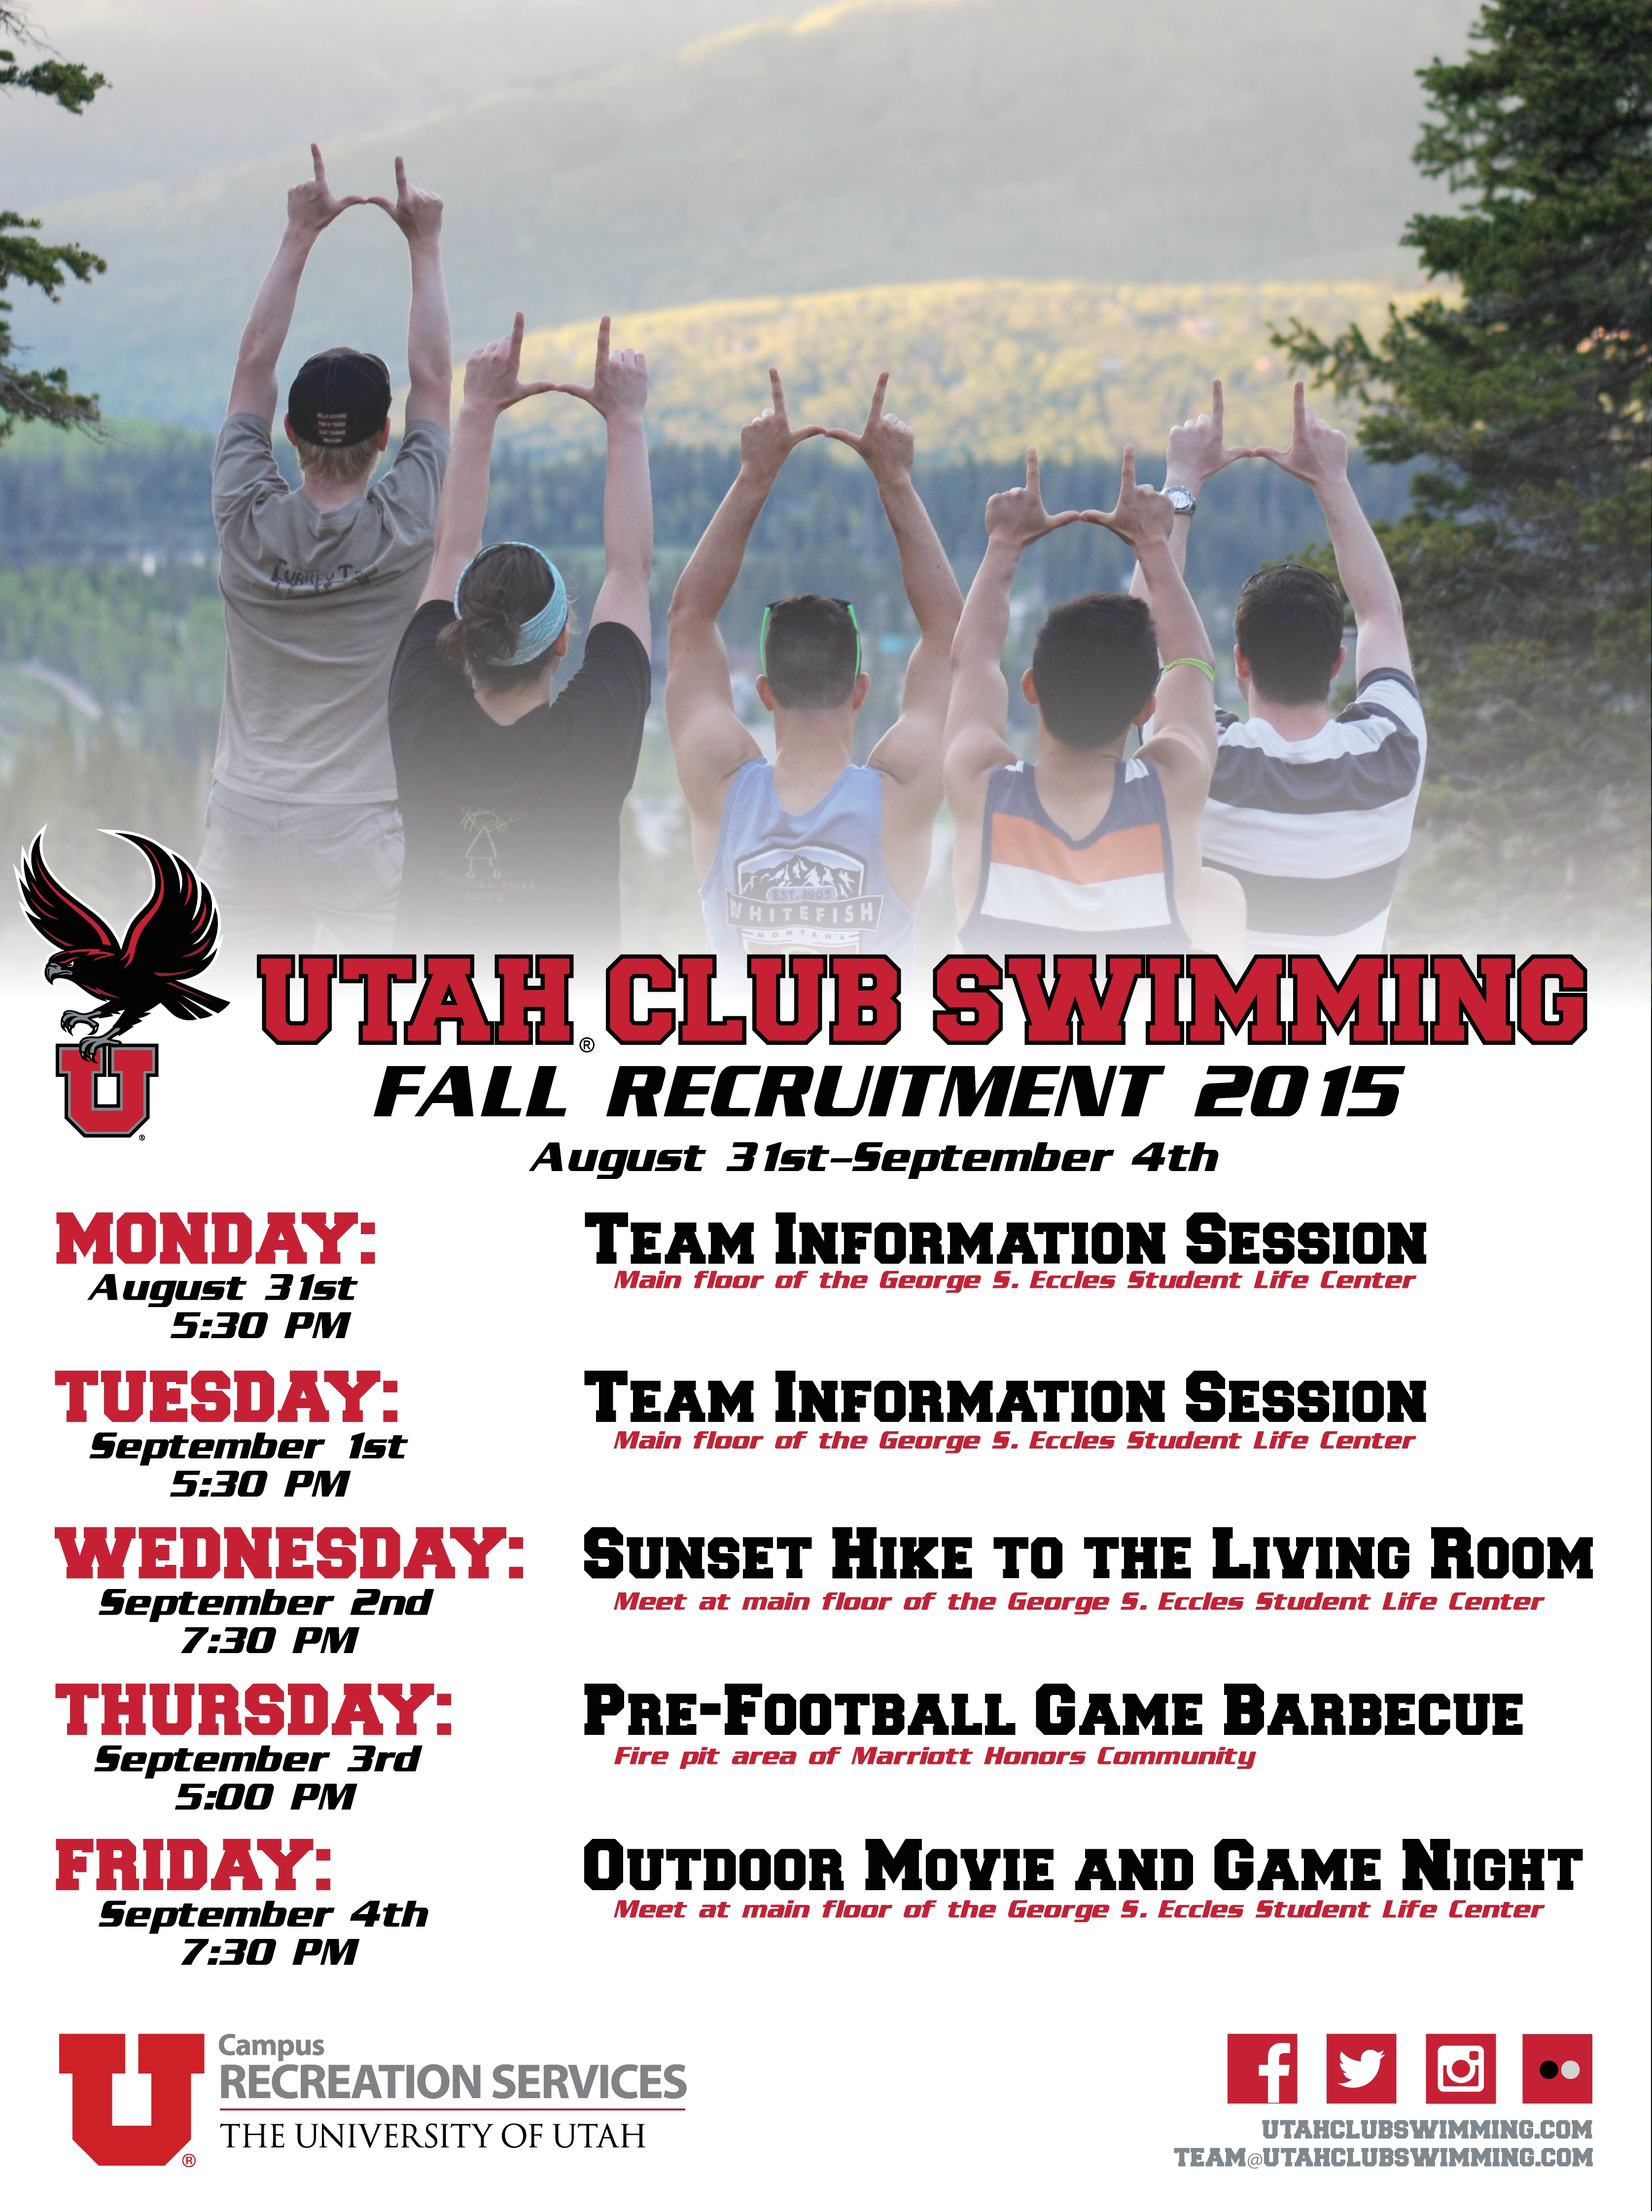
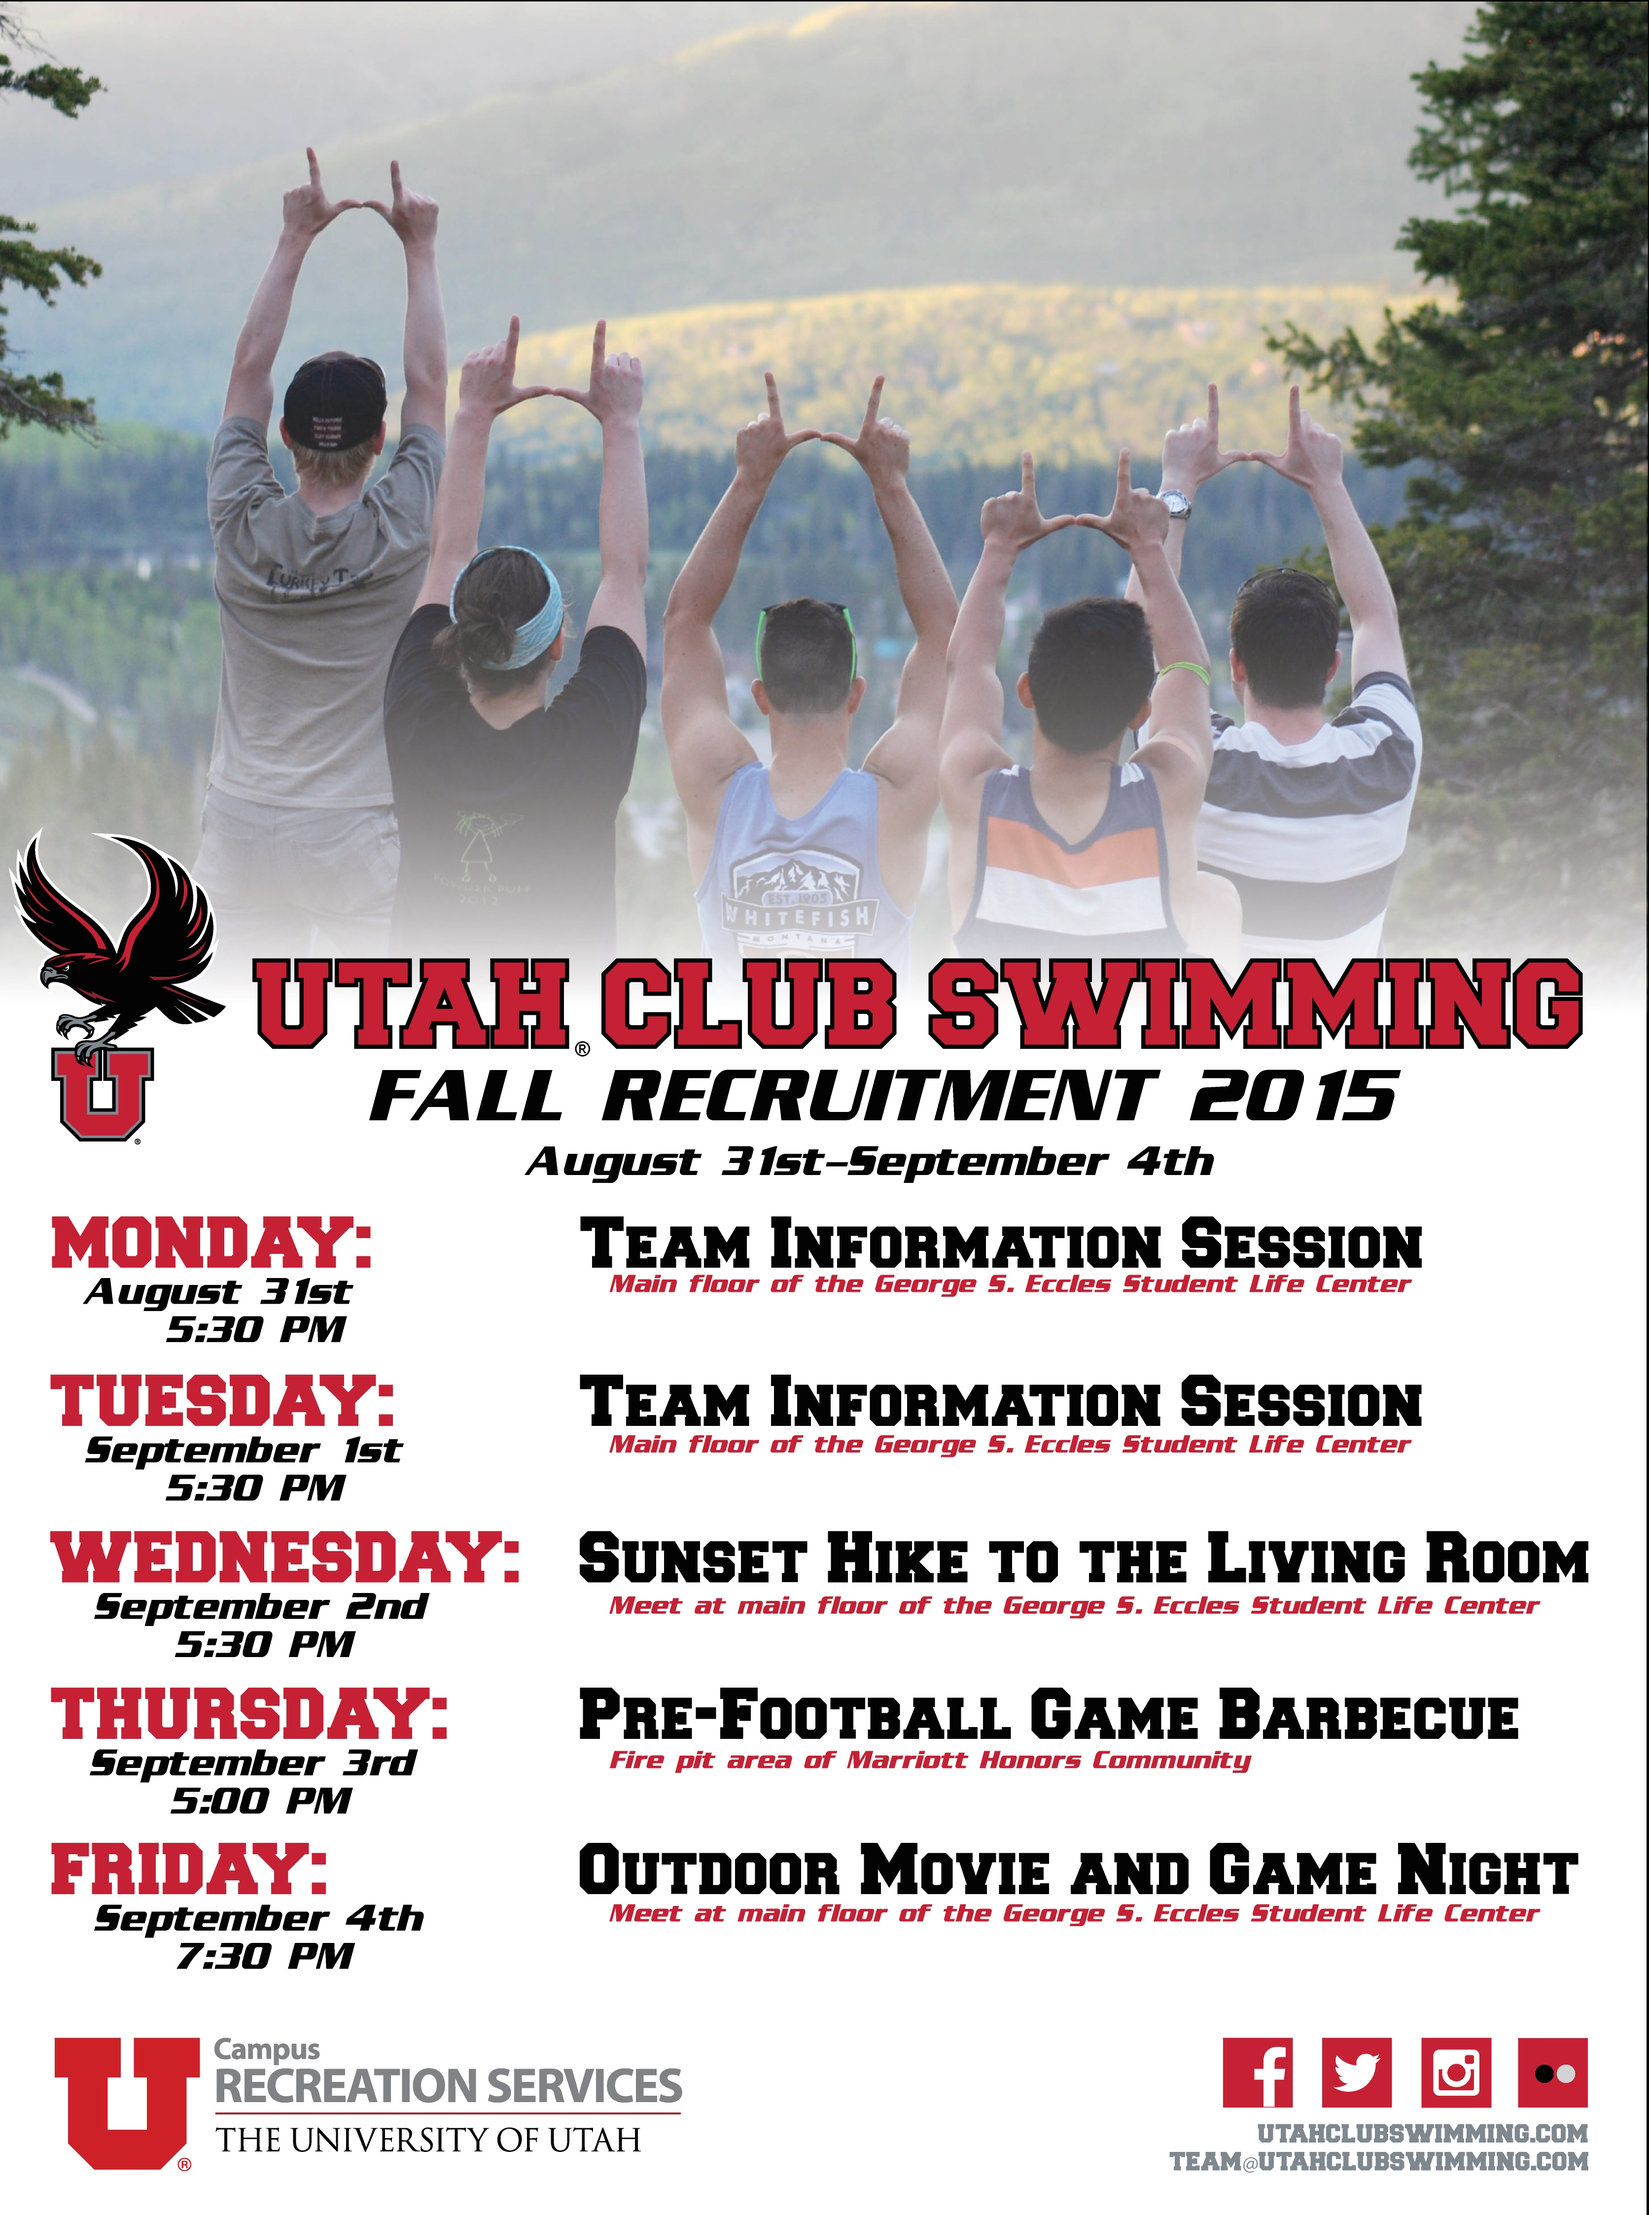
Resolves #135
Edited the flyer and text.

diff --git a/_posts/2015-08-20-recruitment-week-updates.md b/_posts/2015-08-20-recruitment-week-updates.md
@@ -5,7 +5,7 @@ date: 2015-08-20 14:05:00
 author: Pierce Darragh
 image: /blog/recruitment2015-short.png
 ---
-The recruitment week schedule has been changed somewhat! The principle difference is that we have swapped the Wednesday and Thursday activities, and Thursday's barbecue is now specifically a tailgate event to celebrate the first home football game of the season. Here's the updated flyer:
+The recruitment week schedule has been changed somewhat! The principle difference is that we have swapped the Wednesday and Thursday activities, and Thursday's barbecue is now specifically a tailgate event to celebrate the first home football game of the season. Additionally, the Wednesday hike has been moved up to 5:30pm. Here's the updated flyer:
 
 [![Recruitment Week Updates]({{ site.image_url }}/blog/recruitment2015.jpg)]({{ site.image_url }}/blog/recruitment2015.jpg)
 
